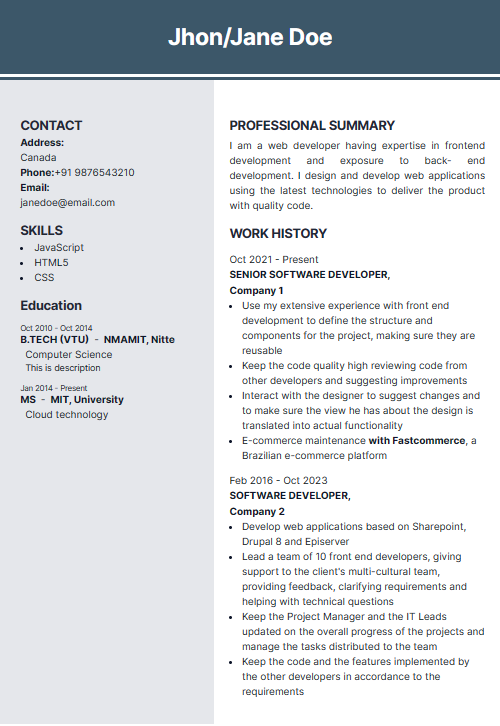
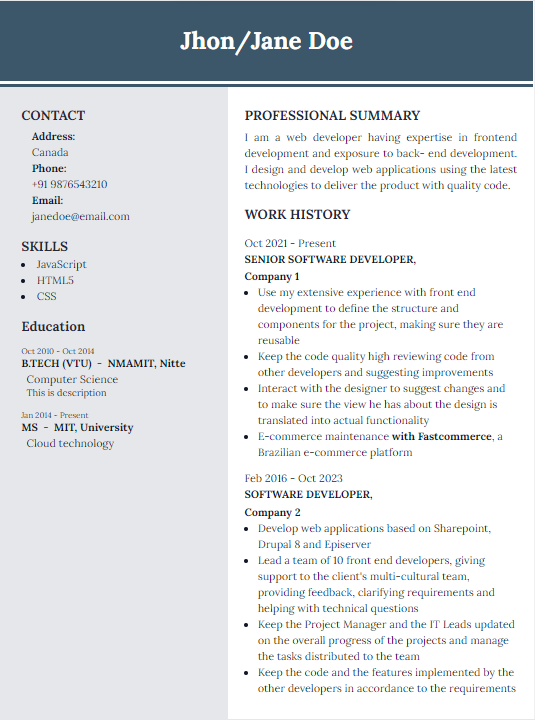
[UPDATE] Replace image template & edit in form skill

diff --git a/templates/gray/GrayTemplate.tsx b/templates/gray/GrayTemplate.tsx
@@ -17,24 +17,24 @@ export default function GrayTemplate({ widthClassName = '' }: { widthClassName?:
     .filter((item) => item.value && item.network === 'linkedin' || item.network === 'github');
 
   return (
-    <div className={cn('print-exact bg-white w-[730px] print:w-[700px]', widthClassName)}>
+    <div className={cn('print-exact bg-white w-[730px] print:w-[700px] mx-auto mt-2', widthClassName)}>
       <div className="flex">
-        <div className="flex w-2/3 bg-gray-200 border-l-8 border-[#1d3344] rounded-lg h-[200px]">
-          <div className="mt-4 ml-4">
+        <div className="px-4 gap-4 grid grid-cols-12 w-2/3 bg-gray-200 border-l-8 border-[#1d3344] rounded-lg h-[200px]">
+          <div className="mt-6 col-span-3">
             <img
               src={resumeData.basics.image}
               alt="Profil"
-              className="w-[100px] h-[100px] object-cover border-4 border-[#f3b943]"
+              className="w-full aspect-square object-cover border-4 border-[#f3b943]"
             />
           </div>
-          <div className="flex flex-col mt-4 ml-2">
+          <div className="col-span-9 flex flex-col mt-4">
             <h1 className="text-[#1d3344] text-2xl font-normal tracking-wide">
               {resumeData.basics.name}
             </h1>
             <h3 className="text-[#f3b943] text-sm font-normal">
               {resumeData.basics.label}
             </h3>
-            <p className="text-xs font-normal w-[370px]">
+            <p className="text-xs font-normal w-full">
               {resumeData.basics.summary}
             </p>
           </div>
@@ -177,7 +177,7 @@ export default function GrayTemplate({ widthClassName = '' }: { widthClassName?:
           </div>
           <div className="pl-2">
             {resumeData.awards.map((item) => (
-              <div className="flex flex-col w-[200px] py-2" key={item.id}>
+              <div className="flex flex-col w-full py-2" key={item.id}>
                 <h3 className="font-semibold text-sm">
                   {item.title} ({dateParser(item.date)})
                 </h3>

diff --git a/components/form/SelectCustomInput.tsx b/components/form/SelectCustomInput.tsx
@@ -18,10 +18,10 @@ const SelectCustomInput: React.FC<propTypes> = ({ data, allow, onChange, id }) =
     if (inputRef.current) {
       const input = inputRef.current.value.trim();
 
-      if (/^([a-zA-Z]+.?[a-zA-Z]+)(,([a-zA-Z]+.?[a-zA-Z]+))*$/gi.test(input)) {
+      if (/^([a-zA-Z]+.?[\sa-zA-Z]+)(,([a-zA-Z]+.?[\sa-zA-Z]+))*$/gi.test(input)) {
         setIsError(false);
         let arrayInput = input.split(",");
-        const newData = arrayInput.map((item) => ({ name: item, level: 100 }));
+        const newData = arrayInput.map((item) => ({ name: item.trim(), level: 100 }));
         onChange(Array.from(new Set([...data, ...newData])) as ISkillItem[]);
         inputRef.current.value = "";
       } else {
